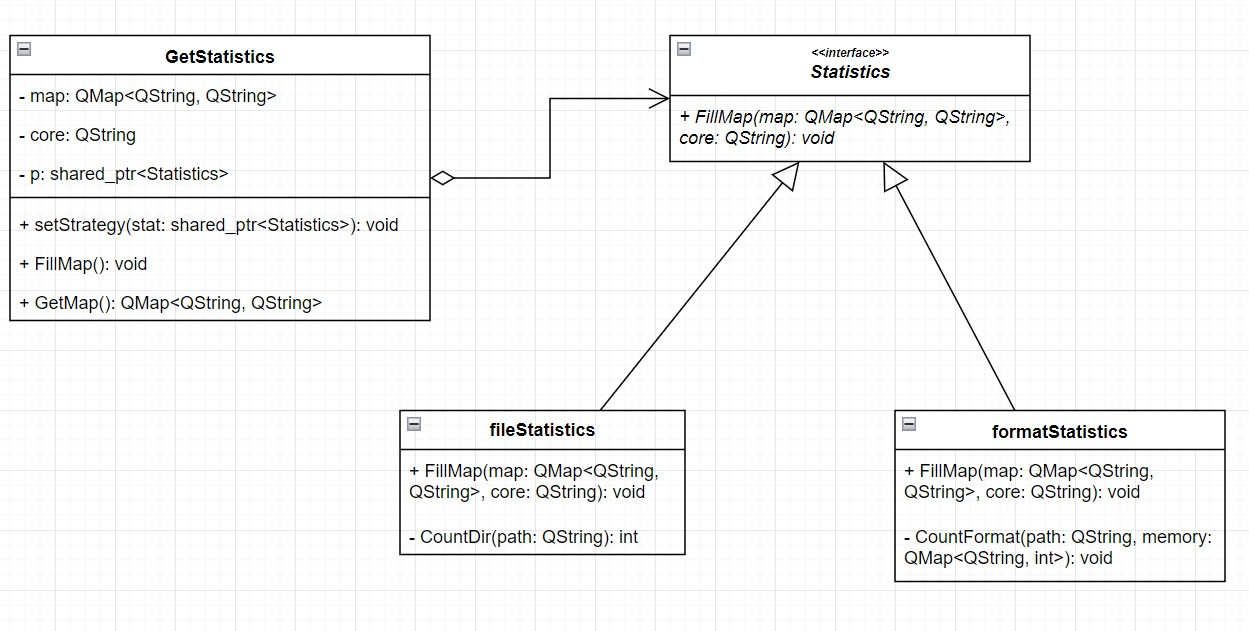
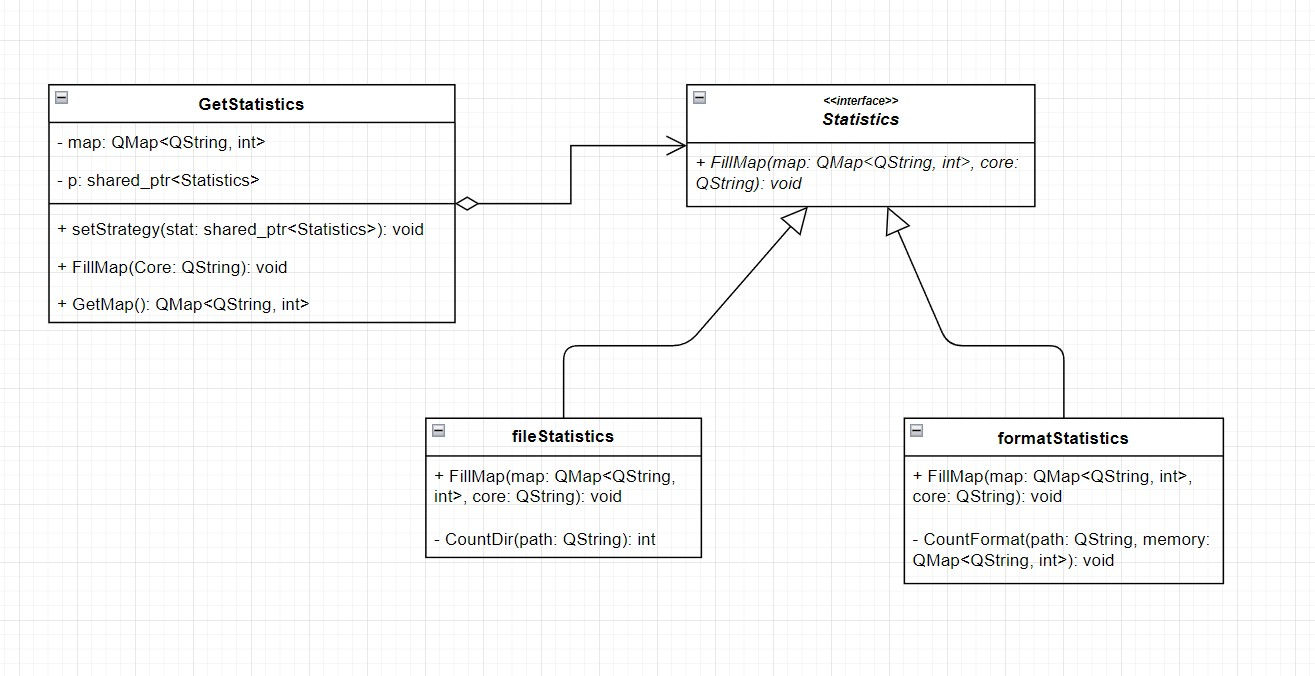
Изменил вывод пустых папок с вложениями, добавил тесты, обновил UML

diff --git a/main.cpp b/main.cpp
@@ -69,7 +69,9 @@ QMap<QString, QString>* countPercent(const QMap<QString, int>& memory, int type,
         while(i.hasNext()) {
             i.next();
             tmp = float(i.value())/total;
-            if (tmp < border)
+            if(tmp == 0)
+                map->insert(i.key(), QString("0.00 \%"));
+            else if(tmp < border)
                 map->insert(i.key(), QString("<%1 \%").arg(QString::number(border)));
             else map->insert(i.key(), QString("%1 \%").arg(QString::number(tmp*100, 'f', 2)));
         }
@@ -82,11 +84,22 @@ QMap<QString, QString>* countPercent(const QMap<QString, int>& memory, int type,
 int main(int argc, char *argv[])
 {
     QCoreApplication a(argc, argv);
-    QDir myDir;
     QString info;
-    //info = myDir.path();
-    info = QString("D:\\Games\\EmptyFolder");
 
+    //Папка пустая
+    //info = QString("...\\File_Observer\\tests\\EmptyFolder");
+
+    //Папка содержит пустые типы данных
+    //info = QString("...\\File_Observer\\tests\\notEmpty");
+
+    //Папка не пустая и не содержит вложения
+    //info = QString("...\\File_Observer\\tests\\folderWithSmth");
+
+    //Папка не пустая и содержит вложения
+    //info = QString("...\\File_Observer\\tests");
+
+    //Папка пустая и содержит вложения
+    //info = QString("...\\File_Observer\\tests\\folderWithNothing");
 
     GetStatistics g(std::make_shared<fileStatistics>());
     g.FillMap(info);
@@ -100,7 +113,7 @@ int main(int argc, char *argv[])
     g.FillMap(info);
     // std::cout << "Formats raw:\n";
     // printMap(g.GetMap());
-    std::cout << "Formats percent:\n";
+    std::cout << "\nFormats percent:\n";
     printMap(countPercent(g.GetMap(), 2));
 
 
